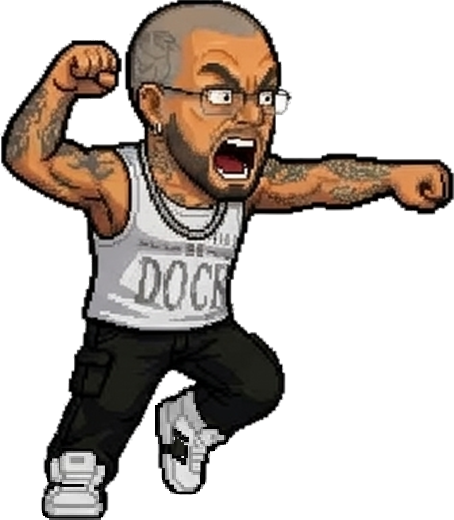
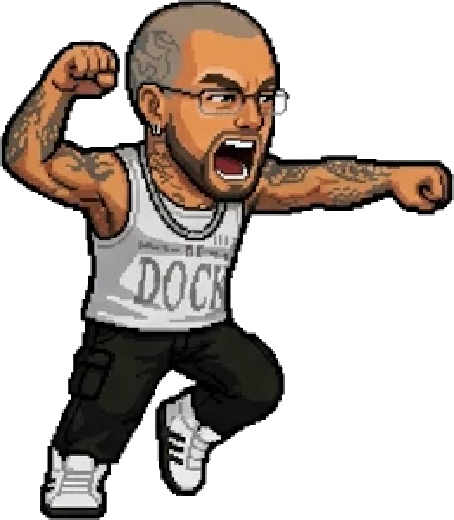
Claudio: 27 poses redibujadas con zapatillas blancas de cana alta y su cara original; vuelven sus poses de movimiento

diff --git a/src/roster.js b/src/roster.js
@@ -142,7 +142,7 @@ window.ROSTER = [
   },
   {
     id: 'claudio', name: 'CLAUDIO BASTARDO', tagline: 'Somos veneno',
-    sprite: poses('assets/fighters/claudio/', ['idle', 'punch', 'punchH', 'kick', 'kickH', 'jumpUp', 'jumpFwd', 'block', 'hit', 'dizzy', 'taunt', 'winRound', 'winMatch', 'punch2', 'kick2', 'vomit', 'scream', 'finisher', 'airpunch', 'airkick']), // TODO: fall y MOVE_POSES vuelven cuando tengan las zapatillas blancas
+    sprite: poses('assets/fighters/claudio/', ['idle', 'punch', 'punchH', 'kick', 'kickH', 'jumpUp', 'jumpFwd', 'block', 'hit', 'dizzy', 'fall', 'taunt', 'winRound', 'winMatch', 'punch2', 'kick2', 'vomit', 'scream', 'finisher', 'airpunch', 'airkick', ...MOVE_POSES]),
     skin: '#d9a273', hairColor: '#6b6b6b', shirt: '#eeeeee', pants: '#141418', shoes: '#f2f2f2', accent: '#ffb300',
     hair: 'buzz', extras: ['glasses', 'chain'],
     stats: { speed: 0.95, power: 1.1, hp: 1.05 },
